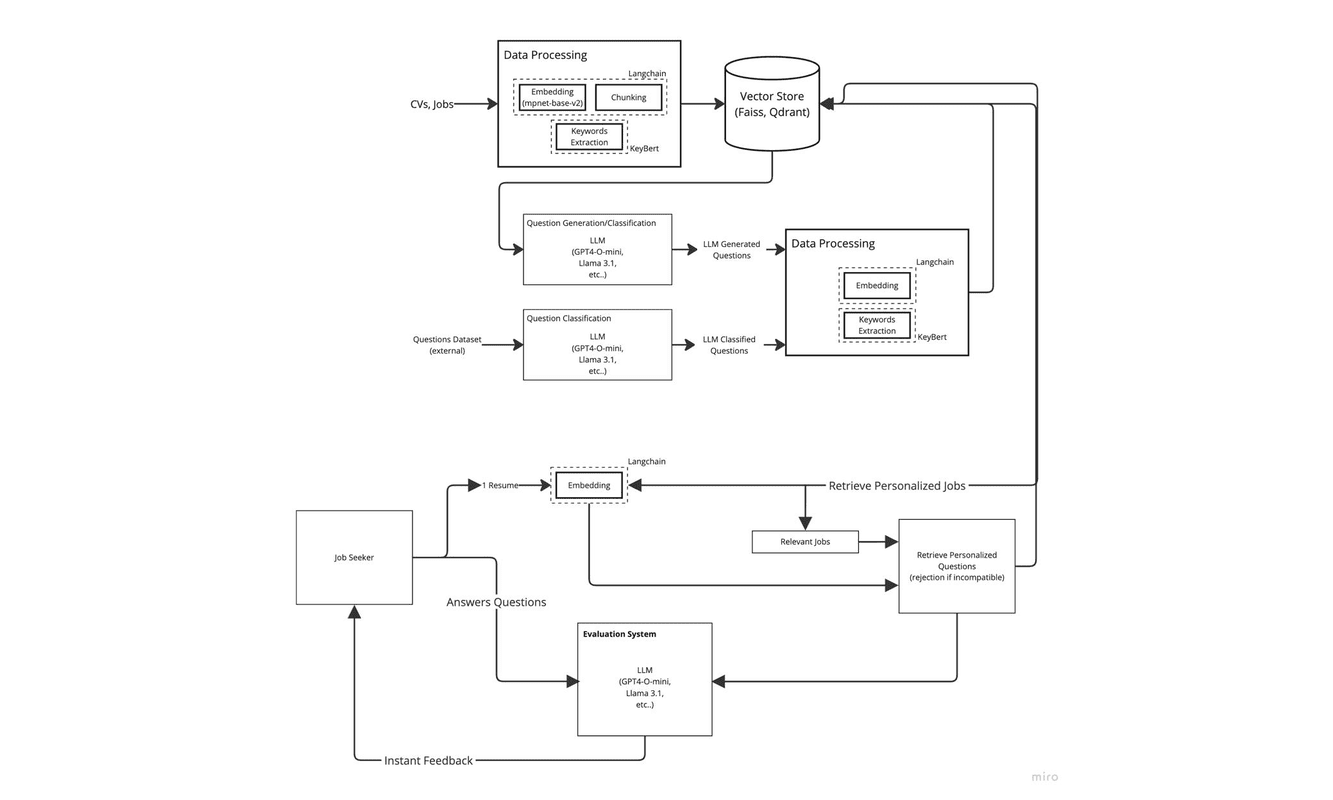
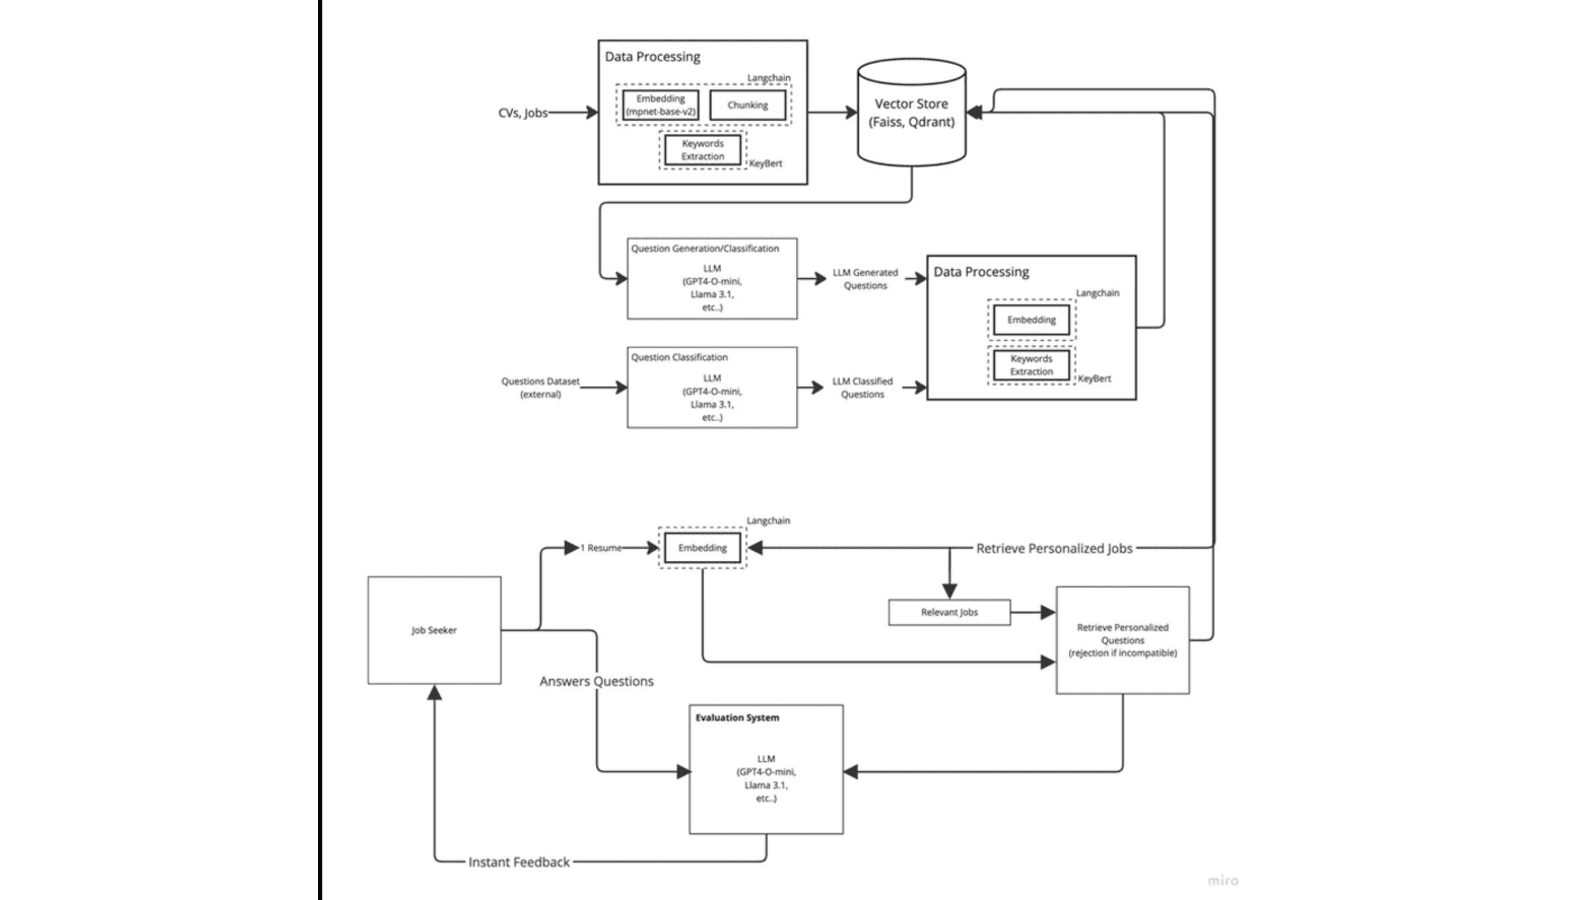
add new projects

diff --git a/index.html b/index.html
@@ -753,7 +753,7 @@
         </li>
         <ul class="project-list">
         <li class="project-item  active" data-filter-item data-category="data engineering">
-          <a href="https://github.com/ZakariaBenlamkadam/Nlp-recrutement/tree/main">
+          <a href="h">
 
             <figure class="project-img">
               <div class="project-item-icon-box">
@@ -773,7 +773,7 @@
           </a>
         </li>
         <li class="project-item  active" data-filter-item data-category="data science">
-          <a href="link">
+          <a href="https://github.com/ZakariaBenlamkadam/Nlp-recrutement/tree/main">
 
             <figure class="project-img">
               <div class="project-item-icon-box">
